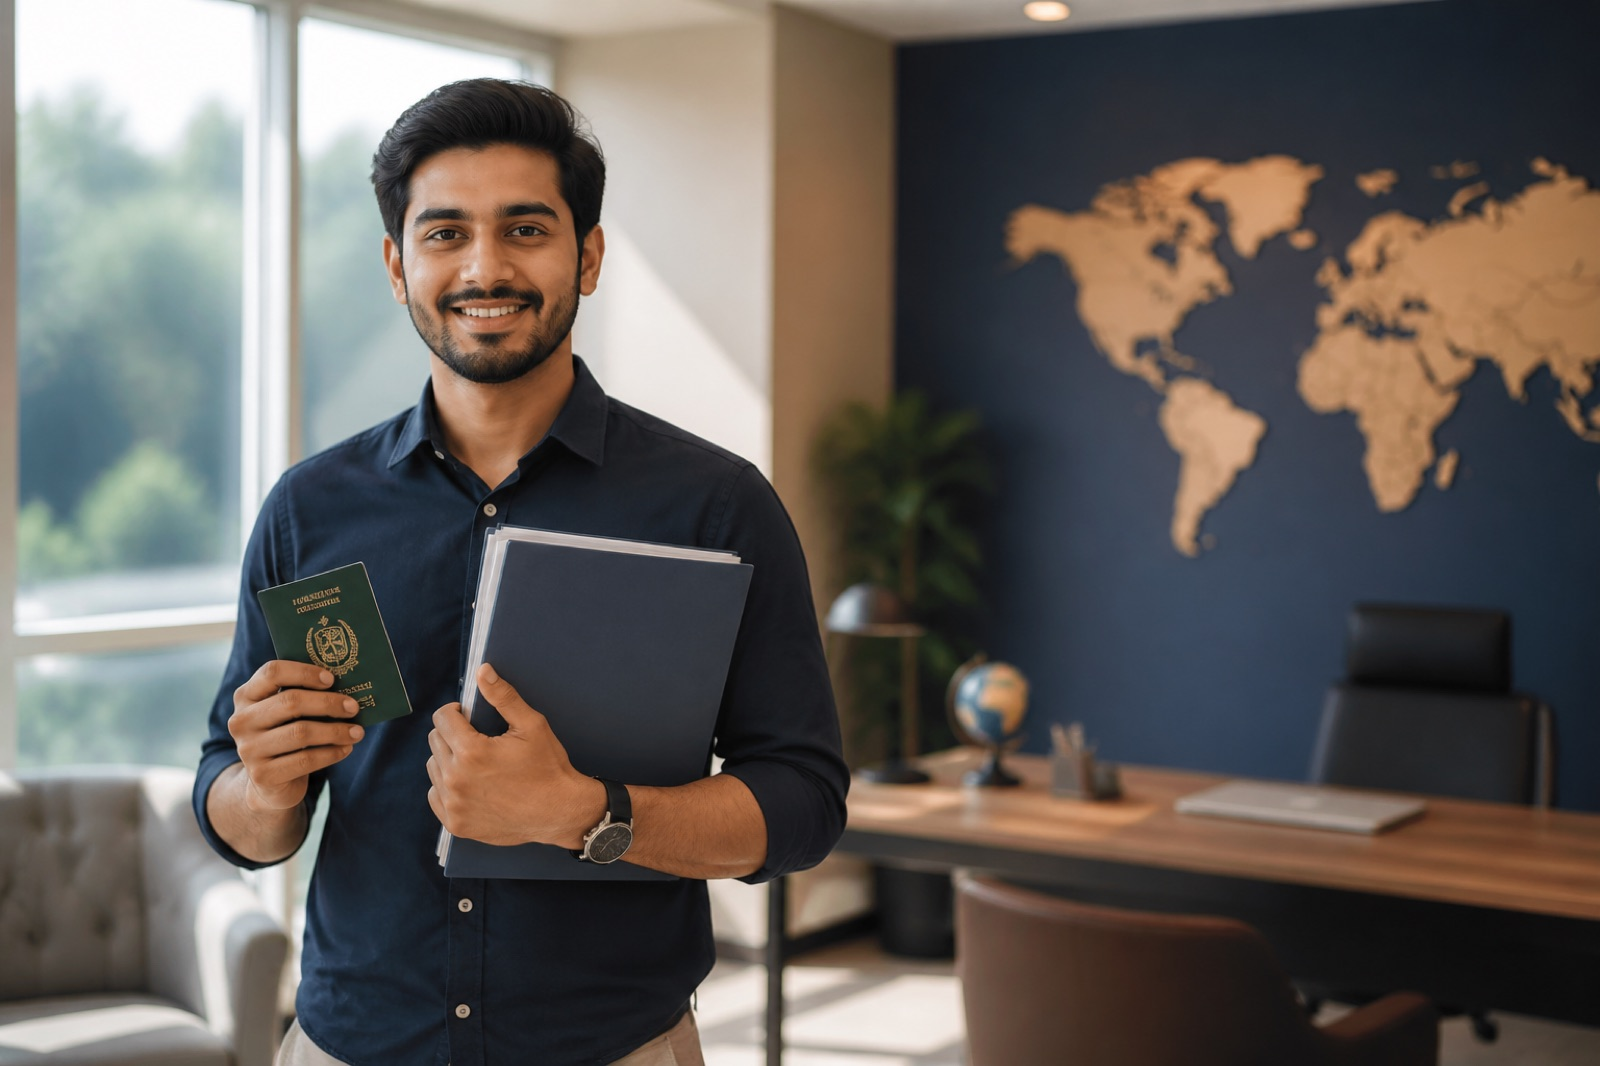
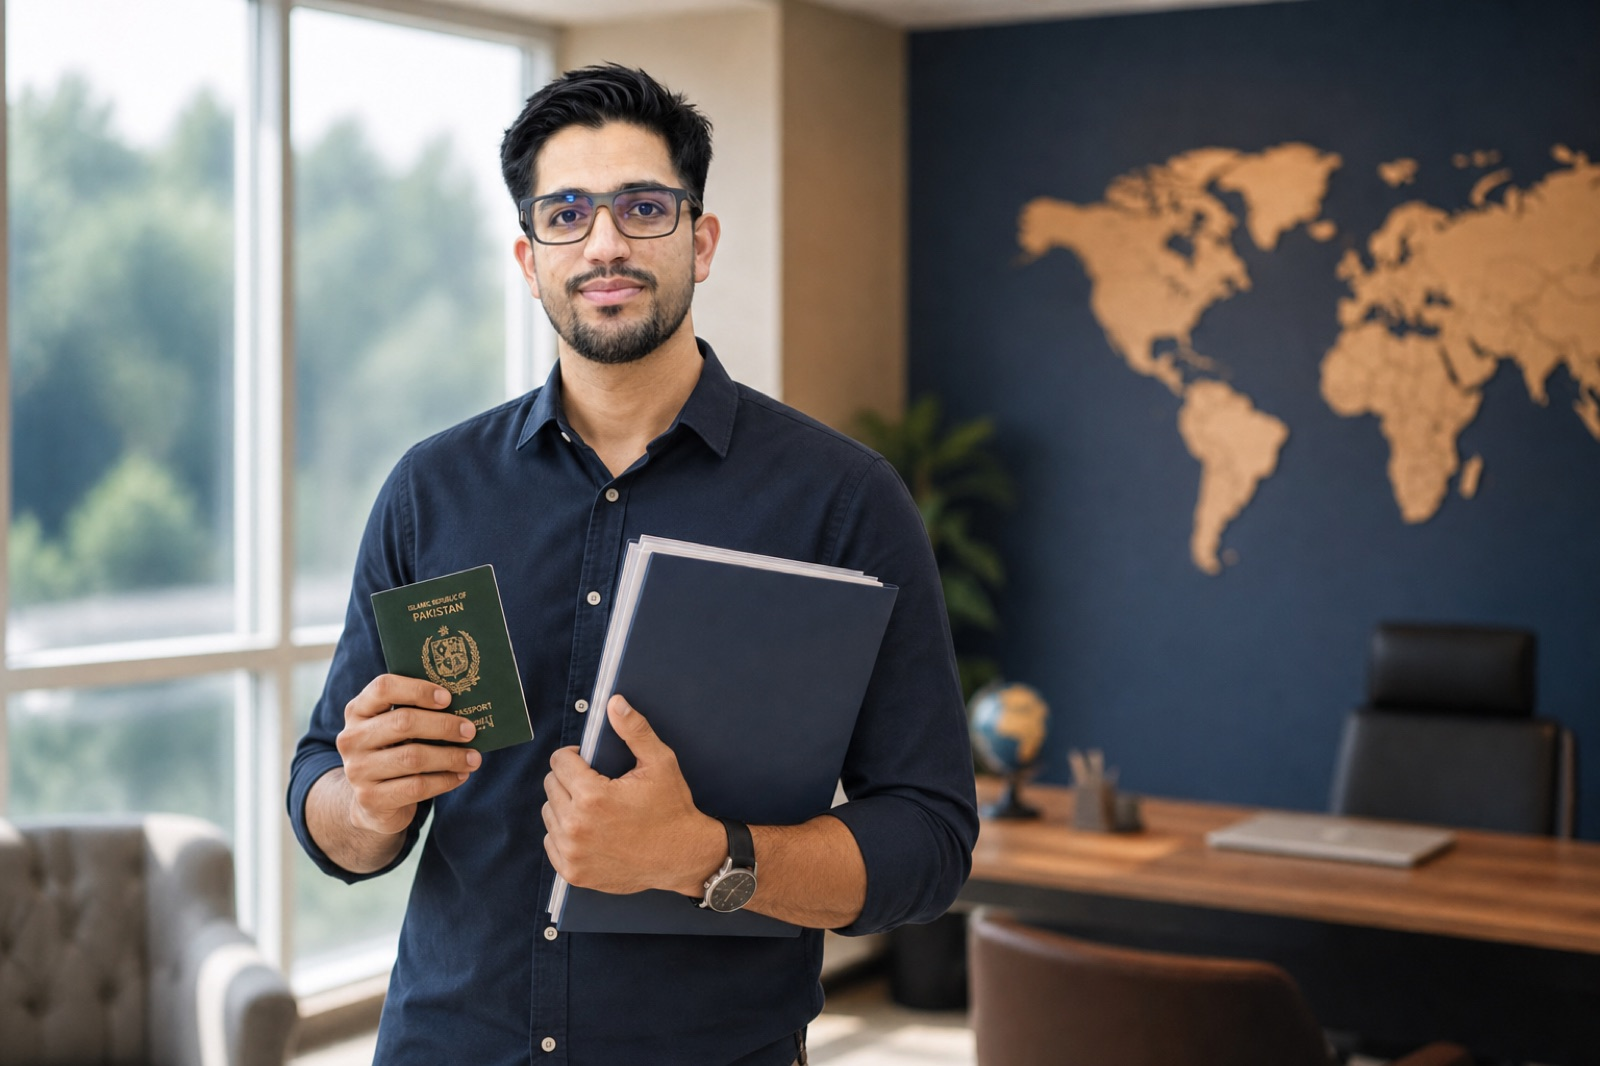
Use the owner's likeness in every homepage photo with a face
The five images that show a person now use the owner's face instead of
stock models, so visitors see the actual consultant rather than generic
people. Image URLs carry a version query because /assets/img/ is cached
for thirty days and the filenames are unchanged.

diff --git a/index.html b/index.html
@@ -10,7 +10,7 @@
   <meta property="og:title" content="SK Immigration Services | Pakistan's Trusted Study Visa & Immigration Partner" />
   <meta property="og:description" content="Honest study, visit and work files from Rawalpindi. Free consultation. Embassies decide — we never sell guarantees." />
   <meta property="og:url" content="https://www.salaroutsourcing.com/" />
-  <meta property="og:image" content="https://www.salaroutsourcing.com/assets/img/hero-consult.jpg" />
+  <meta property="og:image" content="https://www.salaroutsourcing.com/assets/img/hero-consult.jpg?v=2" />
   <meta property="og:site_name" content="SK Immigration Services" />
   <meta name="twitter:card" content="summary_large_image" />
   <meta name="twitter:title" content="SK Immigration Services | Pakistan's Trusted Study Visa Partner" />
@@ -66,10 +66,10 @@
         <div class="lp-visual">
           <img
             class="lp-visual-img"
-            src="assets/img/hero-consult.jpg"
+            src="assets/img/hero-consult.jpg?v=2"
             width="1600"
             height="1066"
-            alt="Client holding a Pakistani passport and visa file at the SK Immigration Services office"
+            alt="SK Immigration Services consultant holding a Pakistani passport and a visa file at the Rawalpindi office"
             fetchpriority="high"
           />
           <div class="lp-visual-scrim" aria-hidden="true"></div>
@@ -138,7 +138,7 @@
       <nav class="lp-services" aria-label="Primary services">
         <a class="lp-svc" href="study-visa/">
           <span class="lp-svc-media">
-            <img src="assets/img/svc-study.jpg" width="640" height="360" alt="" loading="lazy" decoding="async" />
+            <img src="assets/img/svc-study.jpg?v=2" width="640" height="360" alt="" loading="lazy" decoding="async" />
             <span class="lp-svc-ico" aria-hidden="true">
               <svg viewBox="0 0 24 24" fill="none"><path d="M3 10l9-5 9 5-9 5-9-5z" stroke="currentColor" stroke-width="1.7"/><path d="M7 12.5V17c2 1.5 8 1.5 10 0v-4.5" stroke="currentColor" stroke-width="1.7"/></svg>
             </span>
@@ -148,7 +148,7 @@
         </a>
         <a class="lp-svc" href="visit-visa/">
           <span class="lp-svc-media">
-            <img src="assets/img/svc-visit.jpg" width="640" height="360" alt="" loading="lazy" decoding="async" />
+            <img src="assets/img/svc-visit.jpg?v=2" width="640" height="360" alt="" loading="lazy" decoding="async" />
             <span class="lp-svc-ico" aria-hidden="true">
               <svg viewBox="0 0 24 24" fill="none"><circle cx="12" cy="12" r="8" stroke="currentColor" stroke-width="1.7"/><path d="M4 12h16M12 4c2.5 2.8 2.5 13.2 0 16M12 4c-2.5 2.8-2.5 13.2 0 16" stroke="currentColor" stroke-width="1.5"/></svg>
             </span>
@@ -168,7 +168,7 @@
         </a>
         <a class="lp-svc" href="work-permit/">
           <span class="lp-svc-media">
-            <img src="assets/img/svc-work.jpg" width="640" height="360" alt="" loading="lazy" decoding="async" />
+            <img src="assets/img/svc-work.jpg?v=2" width="640" height="360" alt="" loading="lazy" decoding="async" />
             <span class="lp-svc-ico" aria-hidden="true">
               <svg viewBox="0 0 24 24" fill="none"><rect x="3" y="7" width="18" height="13" rx="2" stroke="currentColor" stroke-width="1.7"/><path d="M9 7V5.5A1.5 1.5 0 0110.5 4h3A1.5 1.5 0 0115 5.5V7M3 12h18" stroke="currentColor" stroke-width="1.7" stroke-linecap="round"/></svg>
             </span>
@@ -219,7 +219,7 @@
             <span>Complete processing PKR 15,000 (authority fees separate)</span>
           </a>
           <a class="home-svc" href="ausbildung.html">
-            <img class="home-svc-thumb" src="assets/img/svc-ausbildung.jpg" width="320" height="320" alt="" loading="lazy" decoding="async" />
+            <img class="home-svc-thumb" src="assets/img/svc-ausbildung.jpg?v=2" width="320" height="320" alt="" loading="lazy" decoding="async" />
             <strong>Ausbildung</strong>
             <span>Germany vocational training pathway</span>
           </a>
